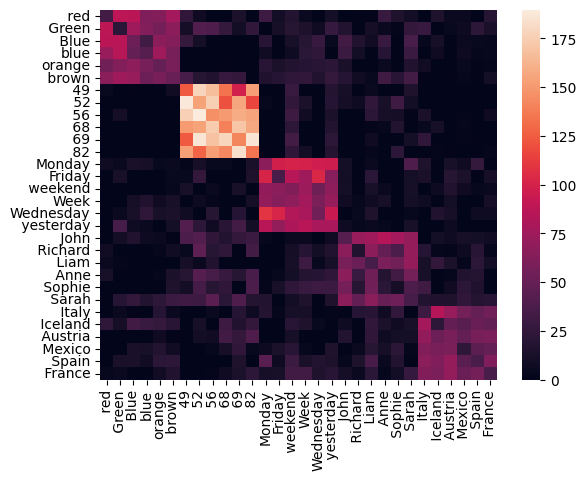
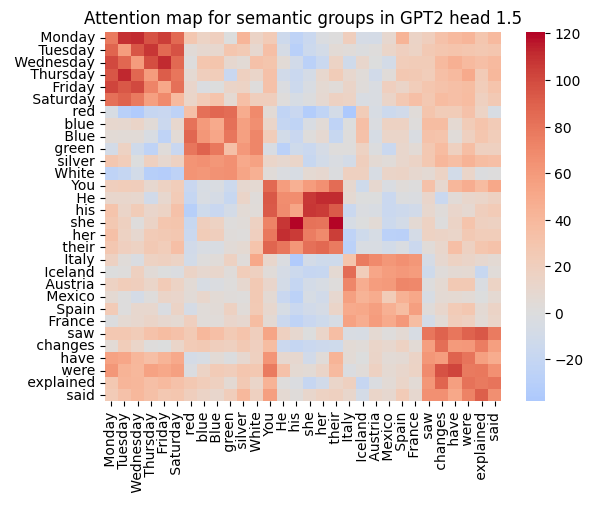
vault backup: 13-06-2025 08:31:36

diff --git a/content/Deep Dive 1.5.md b/content/Deep Dive 1.5.md
@@ -1,0 +1,149 @@
+
+**TL;DR:** GPT-2's head 1.5 directs attention to **semantically similar** tokens and actively **suppresses self-attention**. This mechanism is driven by a symmetric bilinear form with negative eigenvalues, which enables suppression. The head computes attention purely based on token identity, **independent of position**. We **cluster** tokens semantically, interpret the weights to explain the attention scores, and **steer** self-suppression by tuning eigenvalues.
+
+# The Self-Hating Attention Head: A Mechanistic Explanation of Head 1.5
+
+Within GPT-2 small lies an unusual component: attention head 1.5. At a glance, it's a "semantic similarity" head. It excels at connecting related concepts: the token `cat` attends to `dog`, and `red` attends to `green` and `blue`. But here's the odd part: it actively avoids attending to itself. The token `dog` will attend to other animals in the context, but it will not attend to itself or other instances of the token `dog`.
+
+This behavior is too specific to be an accident. This research project aims to find the mechanistic explanation for this semantic grouping and self-avoidance, hoping to develop useful techniques for analyzing attention patterns along the way.
+
+## The Behaviour: Three Simple Rules
+Before diving into the mechanistic analysis, let's establish exactly what GPT-2 head 1.5 (second layer, 6th head) is doing. After analyzing its attention patterns across hundreds of sequences, the behavior can be summarized by three remarkably consistent rules:
+1. **Semantic Clustering**: A token attends to other tokens in the sequence that belong to the same semantic category. `Monday` attends to `Tuesday` and `Friday`, `him` attends to `her` and `their`;
+2. **Self-Suppression**: A token does **not** attend to itself, even when it appears multiple times in the sequence. If `dog` appears at positions 3 and 7, the `dog` at position 7 will not attend to itself or to the `dog` at position 3.
+3. **Fallback to Beginning**: If no other token in the sequence belongs to the same semantic category, the token attends to the `<bos>` token.
+
+These rules hold remarkably consistently across different types of semantic categories, colors, months, days of the week, numbers, names, even verbs and logical operators.
+Broadly, the behaviour of this head as a semantic head was already mentioned [in this post](https://www.alignmentforum.org/posts/xmegeW5mqiBsvoaim/we-inspected-every-head-in-gpt-2-small-using-saes-so-you-don), but there it's only described as a "*Succession or pairs related behavior*".
+## Part 1: Finding What Matters
+First, I needed to isolate this behavior and find the components responsible for it. This required a three-step process: design a prompt to reliably trigger the behavior, define a metric to measure it, and ablate components to see which ones break it.
+### The Setup
+To reliably trigger the head's behavior, I created a simple prompt by shuffling tokens from various hand-picked semantic categories. This creates a context where the head has many opportunities to demonstrate its preference for in-category attention.
+
+> `<bos> cat horse blue sun apple 32 red snow sun rain happy 32 blue sun green`
+
+Based on the three rules observed above, I defined an "expected" attention pattern for this prompt. For example, `cat` should attend to `horse`, but not to `cat` or `blue`. This gives me a target mask representing the idealized behavior of the head.
+![[empirically_observed_attn_pattern.png]]
+### The Metric
+To measure how well the head's actual attention pattern, $A$, matches my expected pattern, $M$, I used a KL divergence-based score: $KL(\{P_Q, 1 - P_Q\} || \{1,0\})$ where $P_Q = M \odot A$. The goal here is to measure how much of the attention probability mass is concentrated where the mask says it should be. This leads to the following loss function (credit to David Quarel for the derivation):
+
+$$
+L = \frac{1}{|Q|} \sum_q -\log \left( \sum_k (M \odot A)_{qk} \right)
+$$
+
+A lower score means a better match. As expected, a survey of all heads in the model shows that head 1.5 is an outlier with a uniquely low score, confirming it's specialized for this task.
+![[heads_score.png]]
+
+### The Ablation
+With a reliable metric, I could perform a mean-ablation study. I systematically replaced the output of each preceding component with its mean value and checked if the score for head 1.5 changed.
+
+Surprisingly, most components are irrelevant. The head's behavior remained unaffected after ablating any component, except for:
+1. The token embedding matrix, $W_E$.
+2. The first MLP layer, $MLP_0$.
+![[component_importance.png]]
+
+Interestingly, ablating the positional embeddings ($W_{pos}$) had almost no effect. This is a crucial clue: the head isn't using positional information to avoid attending to itself. The mechanism must be inherent to the token representations themselves.
+
+From this, I concluded that the essential input to head 1.5 is simply:
+$$
+E = MLP_0(W_E) \in \mathbb{R}^{|V| \times d}
+$$
+
+This matrix $E$ contains a "processed" embedding for every token in the vocabulary, and it's all head 1.5 needs to perform its function.
+
+## Part 2: The World According to Head 1.5
+Using this simplified input $E$, we can circumvent the rest of the network and compute a full token-to-token attention score matrix directly:
+
+$$
+A_{tokens} = E \,\,W_Q W_K^T\,\, E^T
+$$
+
+Here, $W_{QK} = W_Q W_K^T$ is the attention head's effective weight matrix. Visualizing this for selected semantic groups reveals the behavior perfectly: high scores within a semantic block (e.g., colors attending to other colors) but low scores on the diagonal (a token attending to itself).
+![[token2token_attn.png]]
+
+The head's semantic groupings are robust and intuitive:
+
+| **Input Token** | **Top Attended Tokens**                                                                       |
+| --------------- | --------------------------------------------------------------------------------------------- |
+| ' red'          | Green, Blue, green, blue, green, Yellow, GREEN, blue, Green, White                            |
+| ' 69'           | 72, 82, 70, 62, 71, 80, 68, 67, 66, 78                                                        |
+| 'Monday'        | Wednesday, Tuesday, Wednesday, Tuesday, Friday, Tonight, Friday, tonight, Tonight, tomorrow   |
+| ' Italy'        | Iceland, Turkish, Pakistani, Auckland, Portugal, Guatemala, Zealand, Pakistan, Mexican, Chile |
+### Clustering
+Using this attention map, I ran the Leiden community detection algorithm to cluster the entire vocabulary. The resulting clusters are surprisingly coherent and offer a fascinating glimpse into the "world model" of this specific head. You can explore this visualization yourself at [this link](https://mamiglia.github.io/feature-attn/).
+
+## Part 3: The Mechanism of Self-Suppression
+How does a single matrix, $W_{QK}$, implement this complex behavior? Formally, for a query vector $x$, a similar vector $y$ (high cosine similarity), and a dissimilar vector $z$, we want:
+
+$$
+x W_{QK} y^T > x W_{QK} x^T > x W_{QK} z^T
+$$
+
+Plotting the average attention score against cosine similarity confirms this empirically. The peak attention score is not at a similarity of 1.0 (self-attention), but slightly below it, showing the head prefers tokens that are similar, but not identical.
+![[attn_over_similarity.png]]
+
+### Decomposing the Matrix
+To understand how $W_{QK}$ works, I decomposed it into its symmetric and skew-symmetric parts:
+$$
+\begin{cases}
+W_{sym} = 0.5(W_{QK} + W_{QK}^T) \\
+W_{skew} = 0.5(W_{QK} - W_{QK}^T)
+\end{cases}
+$$
+
+This decomposition is useful because the skew-symmetric part always has zero contribution to self-attention ($x W_{skew} x^T = 0$).
+
+When I tested these components separately, the result was clear. The symmetric matrix, $W_{sym}$, was able to reproduce the full behavior on its own: high off-diagonal attention within semantic blocks and low diagonal self-attention. The skew-symmetric part had a negligible effect.
+![[base_sym_skew_attn.png]] 
+
++++ About $W_{skew}$
+
+
+A wealth of evidence suggests the minor role of $W_{skew}$ in this mechanism. Firstly, the Frobenius norm of the attention scores produced by $W_{skew}$ is lower than that of $W_{sym}$, meaning its overall contribution to the final logits is small. Secondly, its maximum singular value is smaller than that of $W_{sym}$ (1.34 vs 1.86), indicating that even its strongest directional effect is weaker. Most tellingly, a downstream ablation study reveals that removing $W_{skew}$ actually *improves* model performance on a related task. When measuring the logit drop on semantically relevant tokens, ablating the full head hurts performance (a drop of 0.44), but ablating only the skew part helps performance (a negative drop of -0.35). This suggests that $W_{skew}$ might be adding a slight, counter-productive noise for this specific function. Given these converging lines of evidence, I'll assume that the core self-suppression mechanism is not driven by the skew-symmetric component, allowing us to focus our investigation entirely on $W_{sym}$.
+
+
++++
+### The Role of Eigenvalues
+So, the mystery is contained entirely within $W_{sym}$. How does it suppress self-attention? We can decompose it using its eigenvalues ($\lambda_i$) and eigenvectors ($q_i$): $W_{sym} = Q \Lambda Q^T$. The attention score is then:
+$$
+x W_{sym} x^T = \sum_i \lambda_i (q_i^T x)^2
+$$
+If all eigenvalues $\lambda_i$ were positive, this score would always be positive. A vector would achieve its highest score by aligning with the eigenvectors corresponding to the largest positive eigenvalues.
+
+This leads to our central hypothesis: **Self-suppression occurs because** $W_{sym}$ **has negative eigenvalues.** If a vector $x$ has a significant projection onto an eigenvector $q_k$ whose eigenvalue $\lambda_k$ is negative, that component $\lambda_k (q_k^T x)^2$ will be negative, reducing the total score.
+
+The head suppresses self-attention for a vector $x$ by having it align with "suppressive directions" in the space defined by $W_{sym}$.
+
+## Part 4: Validation by Steering
+This is a testable hypothesis. First, I computed the 64 eigenvalues of $W_{sym}$ and found that 33 of them are negative. This strongly supports the theory.
+
+The ultimate test is to see if we can control the behavior by manipulating these eigenvalues. I created a steering mechanism to scale all negative eigenvalues by a factor $\alpha$.
+```python
+# Decompose the symmetric matrix
+eigenvalues, eigenvectors = eigen_decomposition(W_sym)
+
+# Scale the negative eigenvalues
+for i in range(len(eigenvalues)):
+	if eigenvalues[i] < 0:
+		eigenvalues[i] *= alpha
+
+# Reconstruct the steered matrix
+W_steered = eigenvectors * diag(eigenvalues) * eigenvectors.T
+
+# Compute new attention map
+attn_map = E * W_steered * E.T
+```
+
+As it can be seen by the plot below, when scaling alpha one can successfully steer the attention map and force it to start paying attention to the current token, while also maintaining the similarity of semantically related tokens:
+![[steered_eigenvalues_attn.png]]
+## Conclusion
+This study offers a mechanistic account of GPT-2 attention head 1.5’s unusual behavior. Its tendency to attend to semantically related tokens, while suppressing self-attention, appears to arise from a symmetric bilinear form with carefully placed negative eigenvalues. This effect seems to operate independently of position, relying only on transformed token embeddings. 
+Decomposing the attention matrix and inspecting its spectrum suggests that negative eigenvalues play a key role in self-suppression. Moreover, this behavior can be steered by adjusting the spectrum, pointing to a possible causal link between spectral structure and function. 
+These results add to our grasp of attention in LLMs and hopefully hint at new ways to interpret and steer their internal workings.
+
+![vbgjj](https://imgur.com/a/LTOk544)
+
+![Imgur](https://imgur.com/EtOw2u9)
+
+
+

diff --git a/content/ARENA/Deep Dive 1.5.md b/content/ARENA/Deep Dive 1.5.md
@@ -8,54 +8,61 @@ url:
 ---
 GPT-2 attention head 1.5 presents a particular attention pattern, as it appears to attend to semantically similar pairs. For example the token *"cat"* attends to *"dog"* and *"elephant"* while the token *"red"* attends to *"green"* and *"blue"*. Most interestingly the head avoids attending to the current token, so that *"dog"* doesn't attend to itself, or other occurrences of the same token. This short research project aims to mechanistically explain such a peculiar behaviour, in the hope of developing some interesting technique to analyze attention patterns.
 
-We start by analyzing attention pattern on common sentences and empirically observe the following behaviour:
-- A given token belonging to a specific semantic category attends to other tokens in the sequence that belong to the same category.
-- The token does **not** attend to itself, or to previous instances of itself within the sequence.
-- If no other token belonging to the same semantic category can be found in the sequence than the token attends to the *< bos >* token.
+I start by analyzing attention pattern on common sentences and empirically observe the following behaviour:
+	- A given token belonging to a specific semantic category attends to other tokens in the sequence that belong to the same category.
+	- The token does **not** attend to itself, or to previous instances of itself within the sequence.
+	- If no other token belonging to the same semantic category can be found in the sequence than the token attends to the *< bos >* token.
 
 ## Component ablation
+
+### Experiment setup
 In order to find out which components matter to the attention head I:
 1. Engineer a specific prompt to elicit its behaviour
 2. Define a metric to measure distance from expected behaviour
 3. Ablate single components
 
-In order to elicit the specific semantic behaviour of the attention head we engineer the prompt as a bunch of tokens belonging to handpicked semantic categories shuffled together. Example:
+In order to elicit the specific semantic behaviour of the attention head I engineered the prompt as a bunch of tokens belonging to handpicked semantic categories shuffled together. Example:
 > `<bos> cat horse blue sun apple 32 red snow sun rain happy 32 blue sun green`
 
-Then given this prompt and the empirically observed behaviour we define a mask of the empirical attention pattern: (the attention pattern we expect to see)
-![[expected_mask.png]]
+Then given this prompt and the empirically observed behaviour i define a mask of the empirical attention pattern: (the attention pattern i expect to see)
+![[empirically_observed_attn_pattern.png]]
 
-Then we define a metric to measure the distance to this expected behaviour as the KL-divergence from the expected distribution:
+
+### Metric
+Then i define a metric to measure the distance to this expected behaviour as the KL-divergence from the expected distribution:
 $$
 KL(\{P_Q, 1 - P_Q\} || \{1,0\}) \,\, \,\,\,\, P_Q = M \odot A
 $$
-Where $A$ is the attention matrix, $M$ is the empirical attention pattern. Thus we're measuring how much probability mass is concentrated where we expect to find it. Props to David Quarel for this derivation. Concretely this develops as:
+Where $A$ is the attention matrix, $M$ is the empirical attention pattern. Thus i'm measuring how much probability mass is concentrated where i expect to find it. Props to David Quarel for this derivation. Concretely this develops as:
 $$
 \mathcal{L} = \frac{1}{|Q|} \sum_q -\log \left( \sum_k(M \odot A)_{qk} \right)
 $$
-We validate that this score is low only for the 5th head:
+i validate that this score is low only for the 5th head:
 ![[heads_score.png]]
 
-Finally we proceed to mean-ablate all previous components to check which are able to retain the original score for the head 1.5. 
-We find out that all previous components are irrelevant, except for:
+### Results
+Finally i proceed to mean-ablate all previous components to check which are able to retain the original score for the head 1.5. 
+i find out that all previous components are irrelevant, except for:
 - The embedding matrix $W_E$
 - The first MLP layer
 ![[component_importance.png]]
-Interestingly also the positional embedding seems irrelevant, as such we deduce that the attention head 1.5 is not using positional information to exclude itself or previous instances of itself from the attention pattern.
 
-Knowing this, we ablate in the rest of the analysis we ablate all unnecessary components, and compute the input of the attention head 1.5 as:
+Interestingly also the positional embedding seems irrelevant, as such i deduce that the attention head 1.5 is not using positional information to exclude itself or previous instances of itself from the attention pattern.
+
+### Outcome
+Knowing this, i ablate in the rest of the analysis i ablate all unnecessary components, and compute the input of the attention head 1.5 as:
 $$
 E = \texttt{MLP}_0(W_E) \in \mathbb{R}^{|V| \times d}
 $$
 Where $|V|$ is the vocabulary size and $d=768$ is the size of the vectors in the residual stream.
 
-Using $E$ we can then compute the whole token-to-token attention scores as:
+Using $E$ i can then compute the whole token-to-token attention scores as:
 $$
 A_\text{tokens} = E\,\, W_Q W_K^T \,\,E^T
 $$
-And when we can check that for selected semantic groups it behaves as expected, high similarity in the block diagonal and lower on the diagonal (itself):
+And when i can check that for selected semantic groups it behaves as expected, high similarity in the block diagonal and lower on the diagonal (itself):
 
-![[token2token_attn.png]]
+![[ARENA/token2token_attn.png]]
 
 ```
                                              Most Attended
@@ -74,21 +81,63 @@ And when we can check that for selected semantic groups it behaves as expected, 
 ```
 
 ## Clustering
-Using the computed token-to-token attention map we can use these scores to find clusters within the tokens. I spent around ~1h finding the right hyperparameters for the [Leiden community detection algorithm](https://en.wikipedia.org/wiki/Leiden_algorithm), and I'm quite satisfied with the quality of the clusters found. Many are easily interpretable.
+Using the computed token-to-token attention map i can use these scores to find clusters within the tokens. I spent around ~1h finding the right hyperparameters for the [Leiden community detection algorithm](https://en.wikipedia.org/wiki/Leiden_algorithm), and I'm quite satisfied with the quality of the clusters found. Many are easily interpretable.
 If you're interested in getting to know how head 1.5 clusters the tokens (world model) and "perceives the world" you can check out the visualization at this link https://mamiglia.github.io/feature-attn/.
 
 ## Mechanistic Understanding
-In this paragraph we try to understand how the head 1.5 implements the aforementioned attention mechanism: semantic similarity with self-suppression. In order to think about this problem first remember that the attention maps are computed as:
+In this paragraph i try to understand how the head 1.5 implements the aforementioned attention mechanism: semantic similarity with self-suppression. In order to think about this problem first remember that the attention maps are computed as:
 $$
 A(X) = X\,\, W_{QK} \,\,X^T; \,\, \text{where } W_{QK} = W_Q W_K^T \in \mathbb{R}^{L\times L}
 $$
 Thus it is essentially a bilinear transformation, that given a pair of tokens outputs a score. Which kind of bilinear transformation matches the described behaviour? 
 
-Formally, given an embedding vector $x, y, z$ such that $x \approx y$ are cosine similar and $x \negapprox z$ and $y \negapprox z$ we want:
+### Section name
+Formally, given an embedding vector $x, y, z$ such that $x \approx y$ are cosine similar and $x \negapprox z$ and $y \negapprox z$ i want:
 $$x W y^T > x W x^T > x W z^T$$
-Any square matrix can be decomposed in $W = W_{sym} + W_{skew}$ 
 
+To check how this looks in the observed attention pattern i plot the average attention score over the cosine similarity for each $x,y$ pair of the tokens. i empirically validate that on average the attention score is higher for similar tokens $y$ than it is for the query token $x$, and also that for dissimilar values the the attention score is lower:
+![[attn_over_similarity.png]]
 
+### Decomposition
+Now to analyze and understand what's causing this peculiar behaviour let's decompose  $W = W_{sym} + W_{skew}$  as in:
+- $W_{sym} = 0.5 (W + W^T)$ as symmetric matrix such that $\forall a,b: a W b^T = b W a^T$
+- $W_{skew} = 0.5 (W - W^T)$ as antisymmetric matrix such that $\forall a: aWa^T = 0$
 
-#### notes
-- plotta score over epsilon (x-y, xy, cos theta)
+Now i can check what happens when rather than using the full $W_{QK}$ matrix i only use the symmetric or skewed one:
+![[base_sym_skew_attn.png]] 
+i observe that the skewed matrix not only has a much lower impact on the attention pattern over all, but it's also irrelevant to the self-suppression of the current token, as the symmetric matrix alone can still attend to correlated blocks and **also** suppress the diagonal. 
+
+The role of $W_{skew}$ is not completely clear at this point, but evidence shows that its role is minor, or at least not interesting for our purposes. 
+Evidence:
+- Ablation study: we select a number of samples from the WikiText dataset that contain references to semantic groups and observe the drop in the logit space of the correct token. Ablating the entire head results in an avg. drop of 0.4393, ablating only $W_{sym}$ results in a drop of 0.049, while ablating only $W_{skew}$ results in a drop of -0.3520 (so it improves!)
+- The norm of the skew-symmetric attention scores is significantly lower than the norm of the sym
+- The maximum singular value of skew is somewhat lower than w_sym (1.3473 < 1.8611)
+So from now on we ignore W_skew. 
+
+In order to understand how $W_{sym}$ is able to implement such a behaviour we start by decomposing it in its eigenvalues, $W_{sym} = Q \Lambda Q^T$ which are always real since $W_{sym}$ is symmetric. Now consider that $xW_{sym} y^T = \sum_i \lambda_i (q_i^T x)(q_i^T y)$, for $x = y$ we know this means $xW_{sym} x^T = \sum_i \lambda_i (q_i^T x)^2$, which means that that if all eigenvalues were positive than the score would always be positive, as a larger projection onto eigenvectors with larger positive eigenvalues would yield a higher score.
+We posit that **Self-Suppression occurs when Wsym has negative eigenvalues.** If x has significant components along eigenvectors qk for which the corresponding eigenvalues λk are negative, these terms λk(qkTx)2 will be negative and will reduce the total sum.
+
+So, Wsym exhibits "self-suppression" for a vector x if x significantly aligns with directions (eigenvectors) in Wsym that have negative eigenvalues. This pulls the value of xWsymxT down from what it might have been if all eigenvalues were positive or if x only aligned with positive-eigenvalue eigenvectors.
+
+### Empirical validation
+
+We compute the 64 eigen values of W_sym and not that 33 out of 64 total eigenvalues are negative. 
+
+Can we now steer this model? If we scale all the negative eigenvalues by a factor $\alpha$ we can successfully steer the attention map and force it to start paying attention to the current token. 
+![[steered_eigenvalues_attn.png]]
+We do this by:
+```pseudocode
+# Compute eigenvalues (S) and eigenvectors (Q) of matrix W_QK
+S, Q = eigen_decomposition(W_sym)
+
+# Keep only the first 64 eigenvalues (assumes W_QK has rank 64)
+S = S[:64]
+
+# Zero out negative eigenvalues in S
+for i in range(len(S)):
+    if S[i] < 0:
+	    S[i] *= scale
+
+# Reconstruct approximate attention matrix using truncated SVD components
+attn_map = E * (Q * diag(S) * Q.T)* transpose(E)
+```
